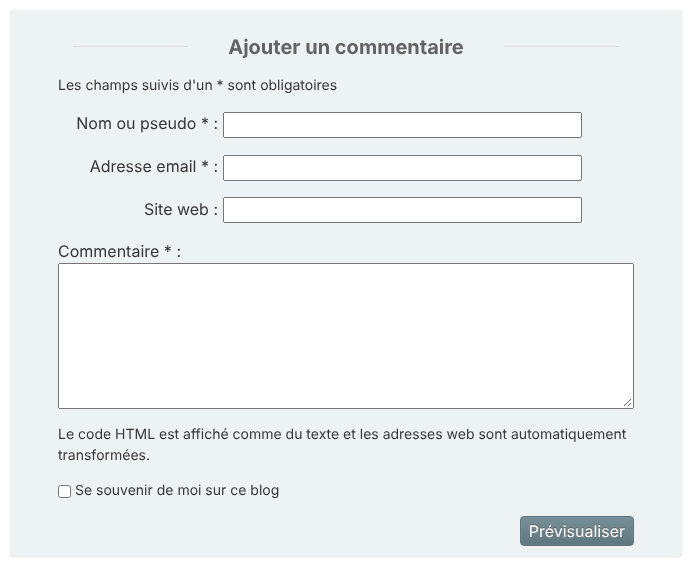
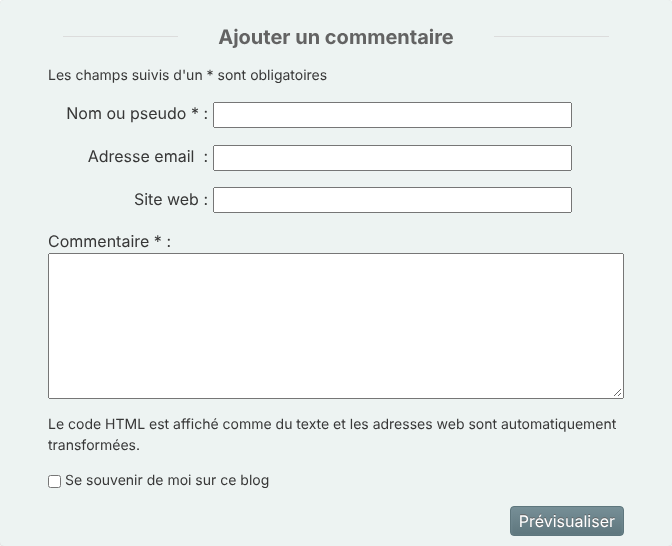
[cosmetic] User guide: follow the required mark fix, new form screenshot

Changed region(s): [[0.0625, 0.0623, 0.8438, 0.4048], [0.0625, 0.4359, 0.9375, 0.9029], [0.75, 0.9029, 0.9375, 0.9963]]

diff --git a/docs/fr/utilisation.md b/docs/fr/utilisation.md
@@ -25,7 +25,7 @@ Le réglage est propre à chaque blog.
 
 ## Ce que voient les visiteurs
 
-Le formulaire de commentaire ne change pas d'aspect : le champ **Adresse email** est toujours présent, mais il n'est plus obligatoire. Un visiteur peut le laisser vide, prévisualiser son commentaire puis l'envoyer.
+Le champ **Adresse email** est toujours présent, mais il n'est plus obligatoire : son astérisque disparaît du libellé. Un visiteur peut le laisser vide, prévisualiser son commentaire puis l'envoyer.
 
 ![Le formulaire de commentaire](img/formulaire-apres.png)
 
@@ -41,6 +41,6 @@ Décochez la case dans les paramètres du blog. Le champ redevient obligatoire. 
 
 ## Bon à savoir
 
-* **L'astérisque reste affiché** : le libellé garde la mention « Adresse email * : » comme si le champ était obligatoire, même si on peut le laisser vide. Pour l'enlever, il faut modifier le modèle du thème.
-* **Le champ doit s'appeler `c_mail`** : c'est le cas dans les thèmes de Dotclear. Le plugin retire l'attribut « obligatoire » de ce champ.
+* **Le champ doit s'appeler `c_mail`** : c'est le cas dans les thèmes de Dotclear. Le plugin retire l'attribut « obligatoire » de ce champ et l'astérisque de son libellé, avec JavaScript. Sans JavaScript, l'astérisque reste affiché, mais le champ vide est quand même accepté.
+* **Se souvenir de moi** : la case garde le nom et le site web dans le navigateur du visiteur, comme d'habitude. L'adresse vide n'y change rien.
 * **Sans adresse**, tout ce qui s'appuie sur l'e-mail du commentateur (par exemple les avatars Gravatar) n'a rien à utiliser pour ces commentaires.
